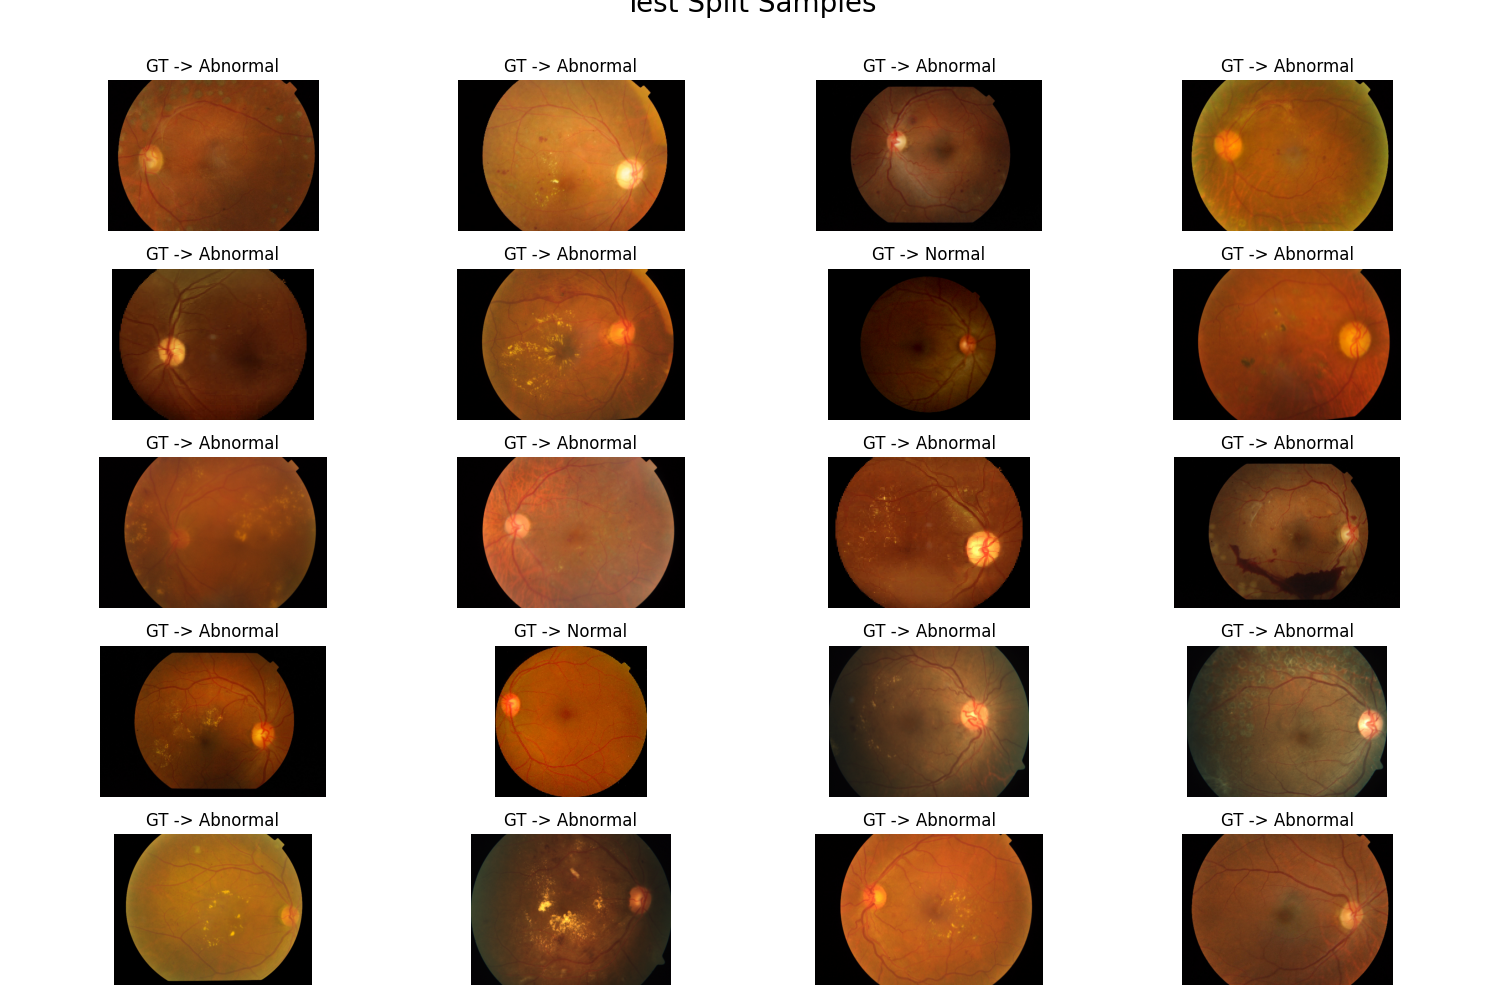
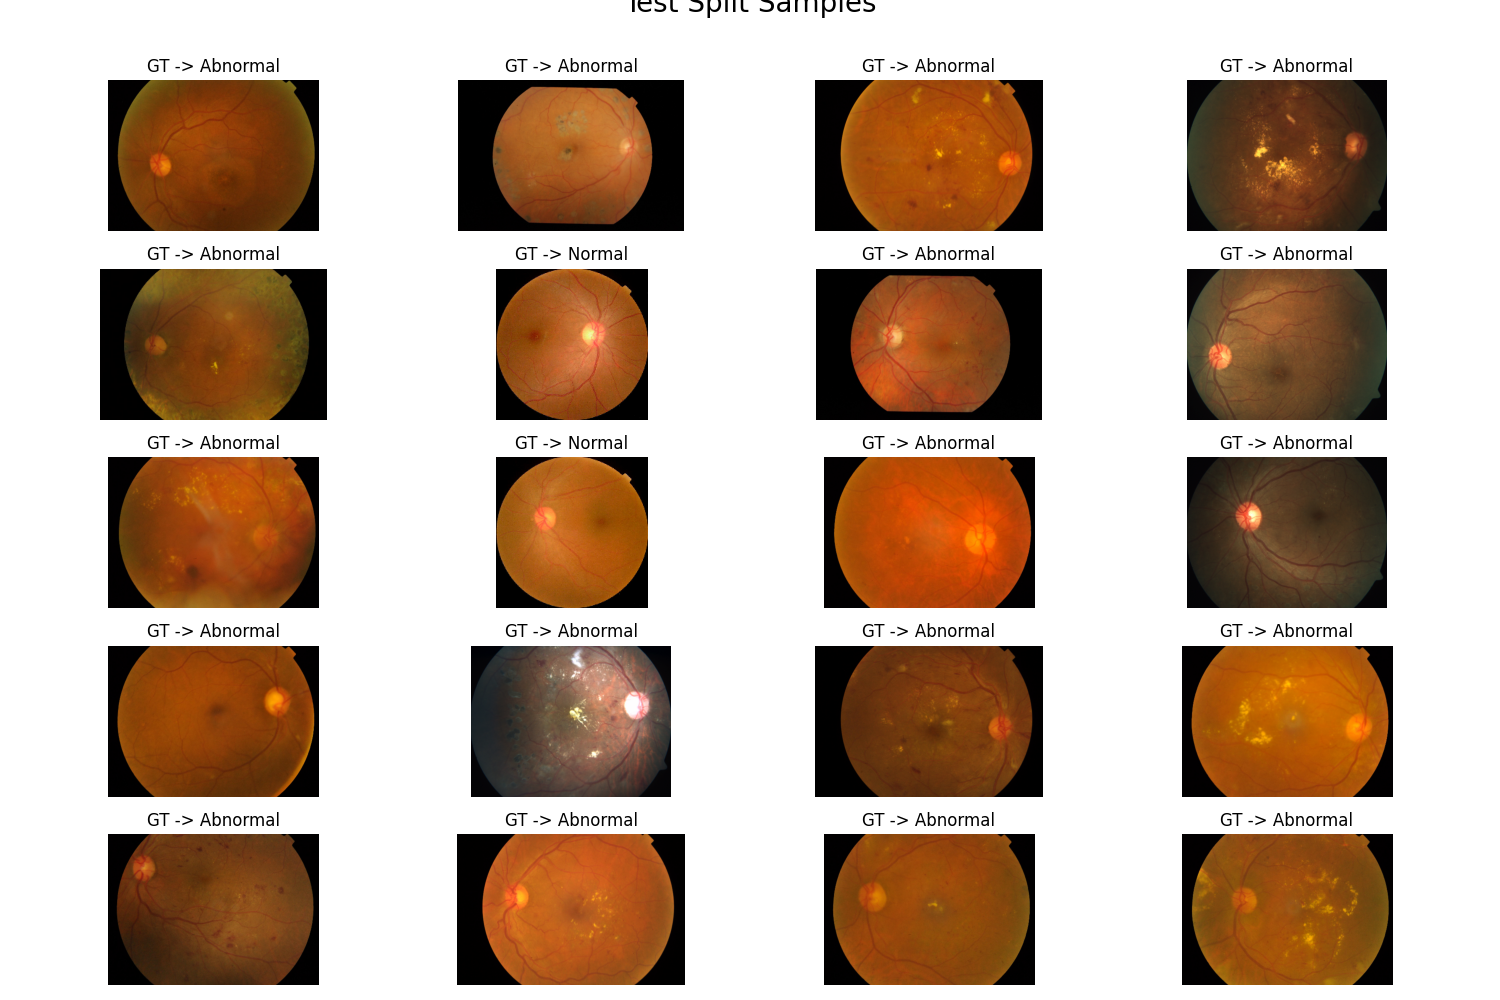
update tfs and main script

diff --git a/new_main.py b/new_main.py
@@ -26,7 +26,7 @@ class TileClassificationPipeline:
         self.callbacks = []
 
     def setup_datamodule(self):
-        train_tfs, eval_tfs = get_fts(mean=self.mean, std=self.std)
+        train_tfs, eval_tfs = get_fts(mean=self.mean, std=self.std, im_size=args.im_size)
 
         self.dm = CellDataModule(                        
             data_name=self.args.data_name,
@@ -92,7 +92,7 @@ class TileClassificationPipeline:
         self.trainer = L.Trainer(
             accelerator="cuda",
             fast_dev_run=True,
-            devices=2,
+            devices=1,
             strategy="ddp",
             max_epochs=self.args.max_epochs,
             precision="16-mixed",
@@ -121,7 +121,7 @@ class TileClassificationPipeline:
 
     def run(self):    
         self.setup_datamodule()
-        self.setup_visualization()
+        # self.setup_visualization()
         self.setup_model()
         self.setup_callbacks()
         self.setup_trainer()
@@ -148,6 +148,7 @@ class TileClassificationPipeline:
         parser.add_argument('--data_name', type=str, required=True, choices=['food', 'digit', 'art', 'kenya_food', 'retina', 'diabetic_retina'], help='Dataset name')        
         parser.add_argument('--run_name', type=str, required=True, help='Name for this training run')
         parser.add_argument('--metric', type=str, help='Metric to save best model')
+        parser.add_argument('--im_size', type=int, default=224, help='Image size')
         parser.add_argument('--batch_size', type=int, default=16, help='Batch size for training')
         parser.add_argument('--max_epochs', type=int, default=100, help='Maximum number of training epochs')
         parser.add_argument('--patience', type=int, default=5, help='Patience for early stopping')

diff --git a/transformations.py b/transformations.py
@@ -1,3 +1,3 @@
 from torchvision import transforms as T
 
-def get_fts(mean, std):  return T.Compose([ T.RandomRotation(10), T.ToTensor(), T.Normalize(mean=mean, std=std) ]), T.Compose([ T.ToTensor(), T.Normalize(mean=mean, std=std) ])
+def get_fts(mean, std, im_size):  return T.Compose([ T.Resize((im_size, im_size)), T.RandomRotation(10), T.ToTensor(), T.Normalize(mean=mean, std=std) ]), T.Compose([ T.Resize((im_size, im_size)), T.ToTensor(), T.Normalize(mean=mean, std=std) ])
